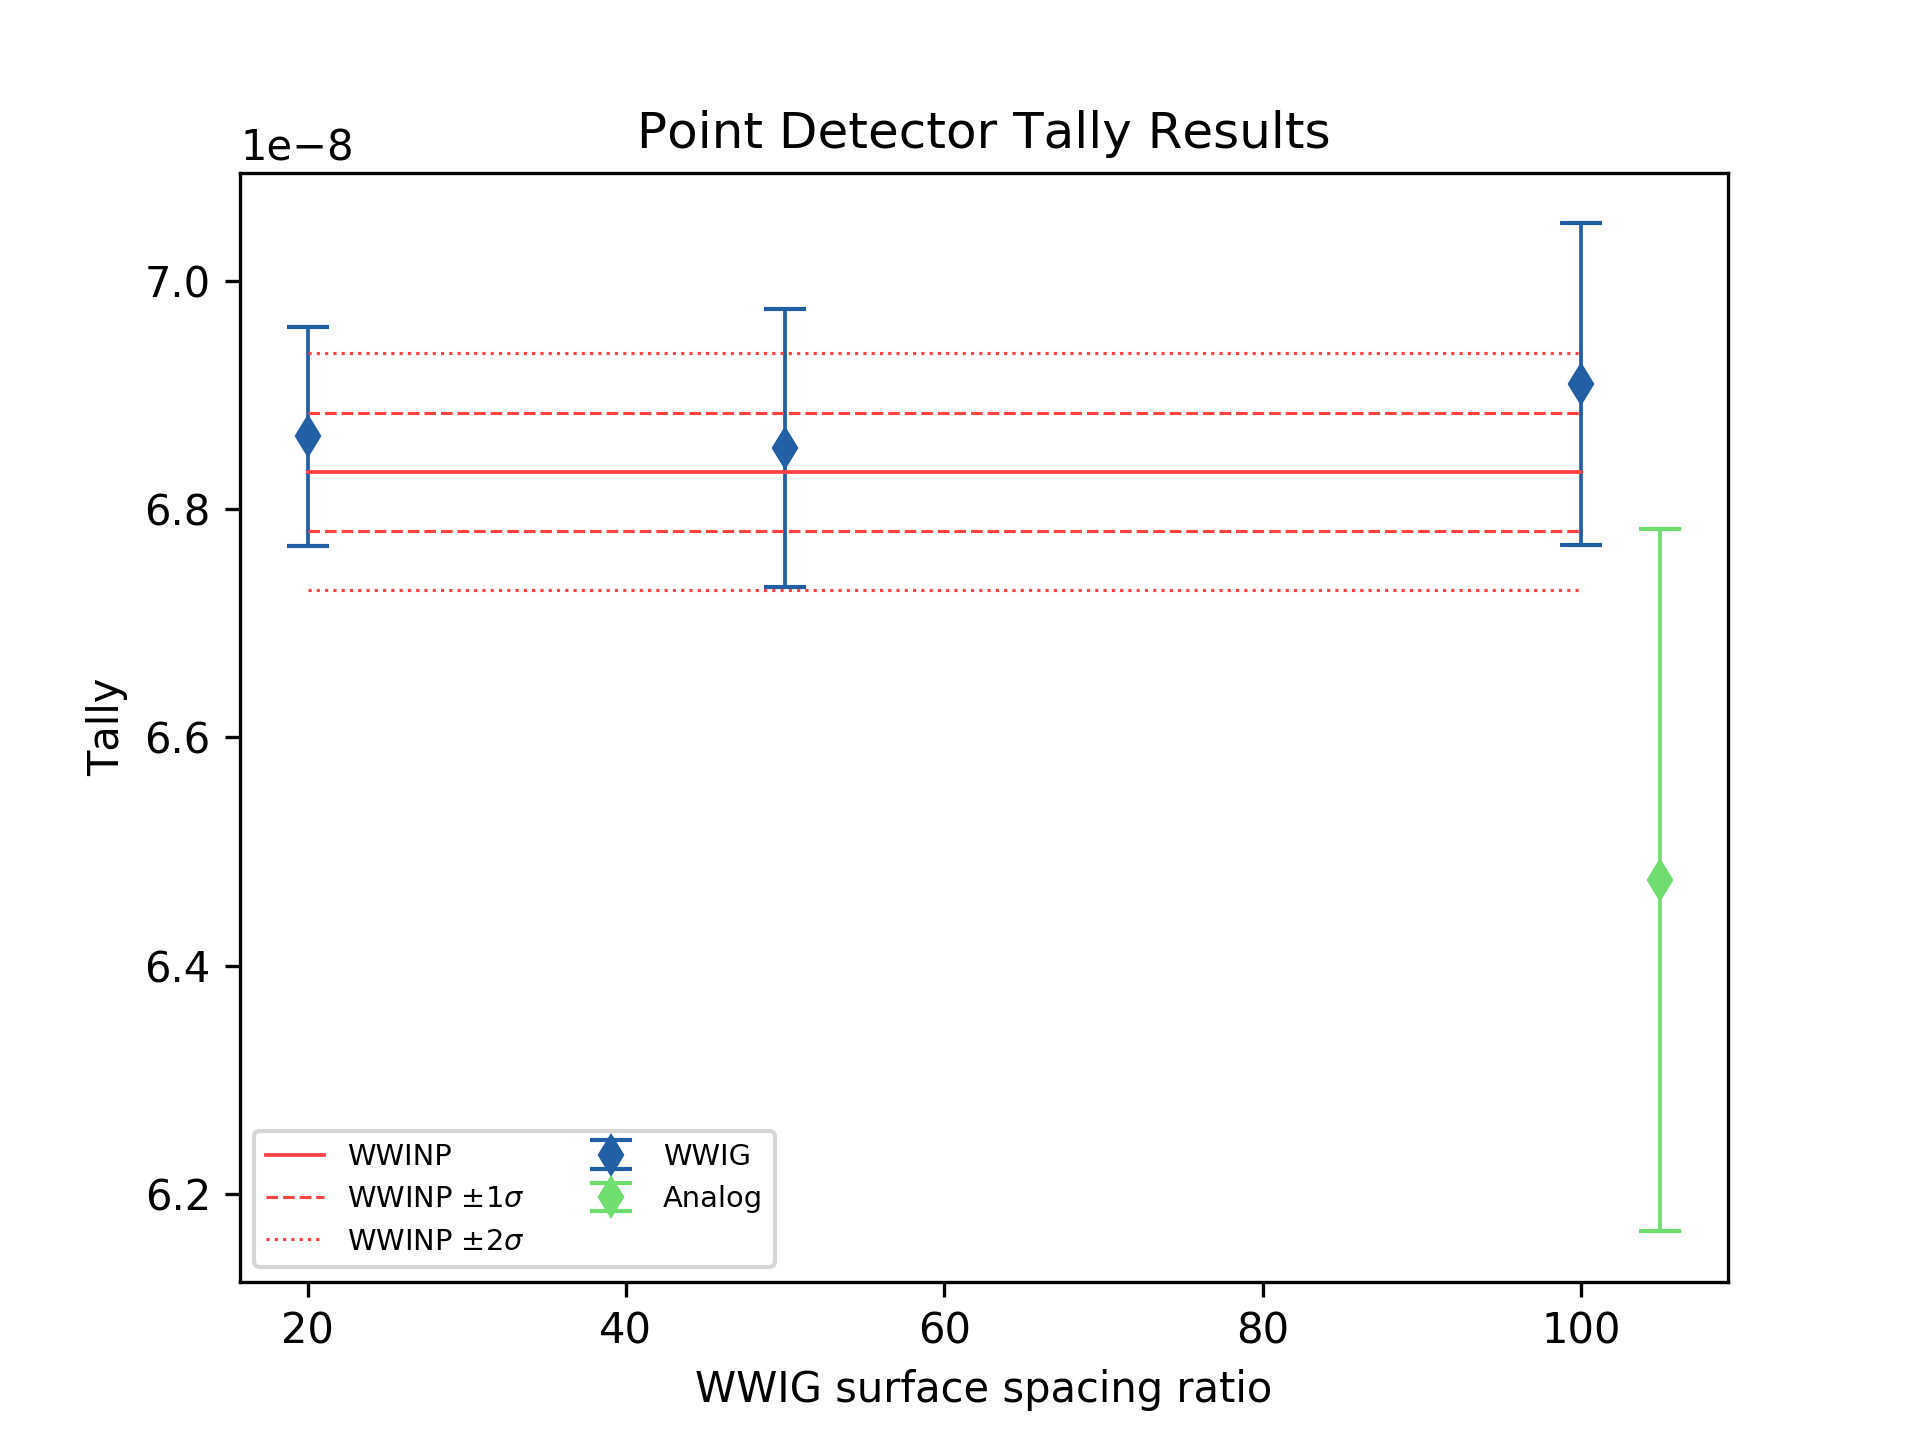
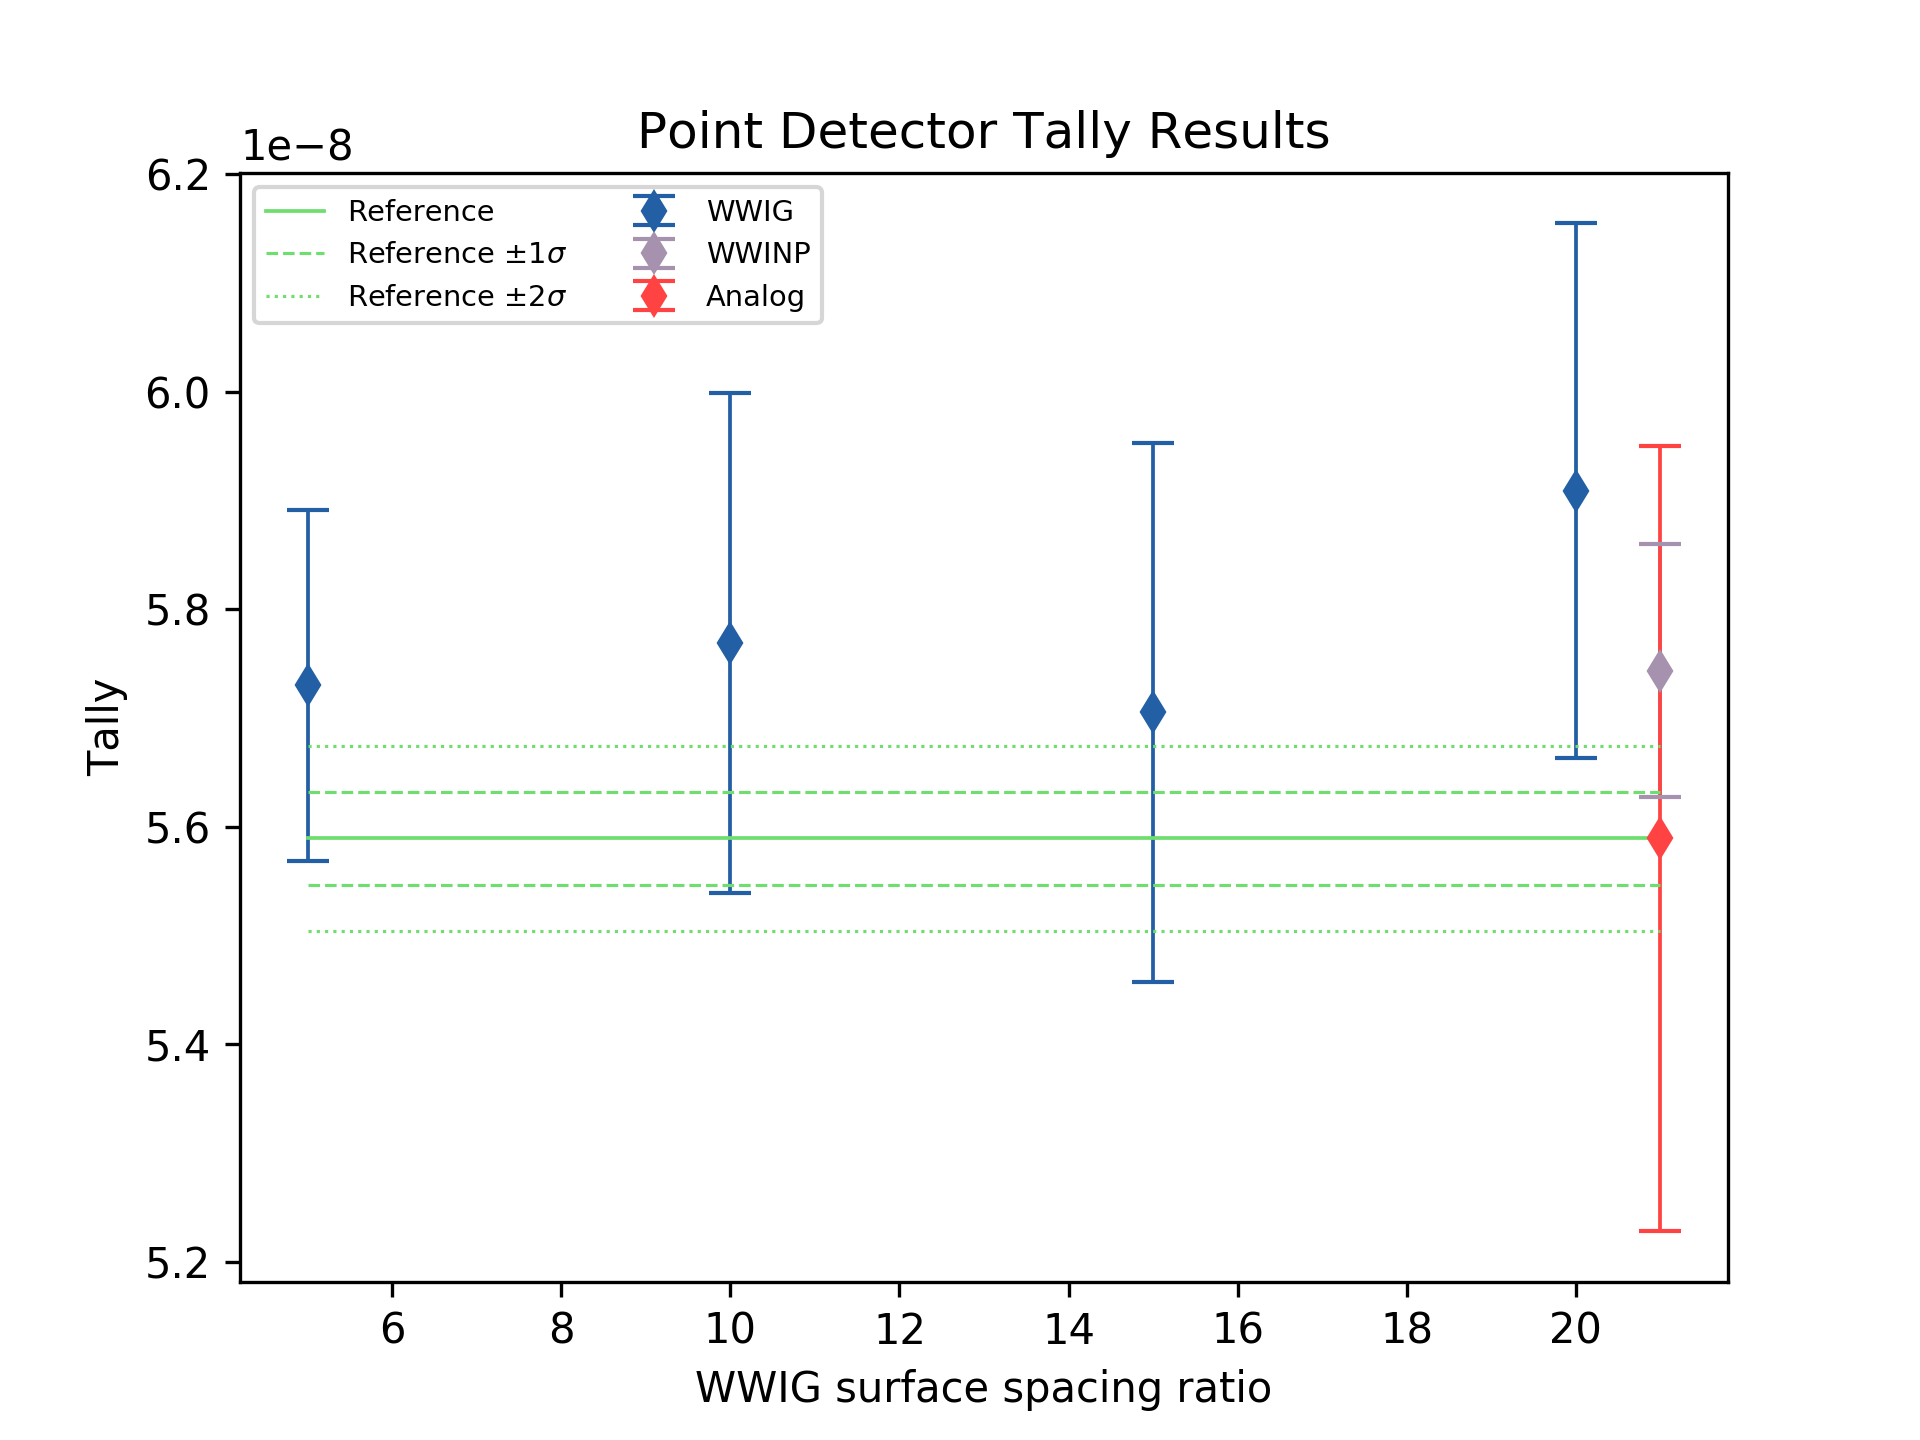
add new data, rework plots to use a reference solution instead of wwinp

diff --git a/analyze/tally_15.py b/analyze/tally_15.py
@@ -24,26 +24,31 @@ def calc_ratios(m1, e1, m2, e2):
 
 
 ## Data
+ratios = np.array([5, 10, 15, 20])
+wwinp_res = np.full(len(ratios), 5.7436E-08)
+wwinp_err = np.full(len(ratios), 0.0202)
+wwig_res = np.array([5.7301E-08, 5.7690E-08, 5.7053E-08, 5.9092E-08])
+wwig_err = np.array([0.0282, 0.0398, 0.0434, 0.0416])
+analog_res = np.full(len(ratios), 5.5893E-08)
+analog_err = np.full(len(ratios), 0.0646)
 
-ratios = np.array([20, 50, 100])
-wwig_res = np.array([6.8638E-08, 6.8536E-08, 6.9097E-08])
-wwig_err = np.array([0.0140, 0.0178, 0.0204])
-wwinp_res = np.array([6.8328E-08, 6.8328E-08, 6.8328E-08])
-wwinp_err = np.array([0.0076, 0.0076, 0.0076])
-analog_res = np.array([6.47480E-08, 6.47480E-08, 6.47480E-08])
-analog_err = np.array([0.0475, 0.0475, 0.0475])
+# reference solutions
+ref_res = np.full(len(ratios) + 1, 5.5894E-08)
+ref_err = np.full(len(ratios) + 1, 0.0076)
 
-wwinp1_upper, wwinp1_lower = calc_sigmas(wwinp_res, wwinp_err, 1)
-wwinp2_upper, wwinp2_lower = calc_sigmas(wwinp_res, wwinp_err, 2)
+ref1_upper, ref1_lower = calc_sigmas(ref_res, ref_err, 1)
+ref2_upper, ref2_lower = calc_sigmas(ref_res, ref_err, 2)
 
+## Plots
+# stuff for plots
+ext_x = max(ratios) + 1
+ref_xs = np.append(ratios, ext_x)
 
-# Plots
-
-wwinp_color = '#FF4242'
+# all colors: '#FF4242', '#235FA4', '#6FDE6E', '#E8F086', '#0A284B', '#A691AE'
+wwinp_color = '#A691AE'
 wwig_color = '#235FA4'
-analog_color = '#6FDE6E'
-
-# all colors: '#FF4242', '#E8F086', '#6FDE6E', '#0A284B', '#235FA4', '#A691AE'
+analog_color = '#FF4242'
+ref_color = '#6FDE6E'
 
 cs = 5  # cap size
 dpi = 300
@@ -51,15 +56,17 @@ dpi = 300
 # plot results
 plt.figure()
 plt.errorbar(ratios, wwig_res, yerr=(wwig_err*wwig_res),
-    color=wwig_color, label='WWIG', ls='', marker='d', lw=.9, capsize=cs)
-plt.errorbar([105], analog_res[0], yerr=(analog_err*analog_res)[0],
-    color=analog_color, label='Analog', ls='', marker='d', lw=.9, capsize=cs)
-plt.plot(ratios, wwinp_res, label='WWINP', ls='-', marker='', lw=.9, color=wwinp_color)
-plt.plot(ratios, wwinp1_upper, label='WWINP $\pm 1\sigma$', ls='--', lw=.75, color=wwinp_color)
-plt.plot(ratios, wwinp1_lower, label='', ls='--', lw=.75, color=wwinp_color)
-plt.plot(ratios, wwinp2_upper, label='WWINP $\pm 2\sigma$',
-         ls=':', lw=.75, color=wwinp_color)
-plt.plot(ratios, wwinp2_lower, label='', ls=':', lw=.75, color=wwinp_color)
+             color=wwig_color, label='WWIG', ls='', marker='d', lw=.9, capsize=cs)
+plt.errorbar([ext_x], wwinp_res[0], yerr=(wwinp_err*wwinp_res)[0],
+             color=wwinp_color, label='WWINP', ls='', marker='d', lw=.9, capsize=cs)
+plt.errorbar([ext_x], analog_res[0], yerr=(analog_err*analog_res)[0],
+             color=analog_color, label='Analog', ls='', marker='d', lw=.9, capsize=cs)
+plt.plot(ref_xs, ref_res, label='Reference', ls='-', marker='', lw=.9, color=ref_color)
+plt.plot(ref_xs, ref1_upper, label='Reference $\pm 1\sigma$', ls='--', lw=.75, color=ref_color)
+plt.plot(ref_xs, ref1_lower, label='', ls='--', lw=.75, color=ref_color)
+plt.plot(ref_xs, ref2_upper, label='Reference $\pm 2\sigma$',
+         ls=':', lw=.75, color=ref_color)
+plt.plot(ref_xs, ref2_lower, label='', ls=':', lw=.75, color=ref_color)
 plt.xlabel('WWIG surface spacing ratio')
 plt.ylabel('Tally')
 plt.title('Point Detector Tally Results')
@@ -67,48 +74,56 @@ plt.legend(loc='best', ncol=2, fontsize='x-small')
 plt.savefig('tally15_results.png', dpi=dpi)
 
 # plot wwinp ratio
-r1 = np.array([1, 1, 1])
+r1 = np.full(len(ratios), 1)
 
-# ratios compared to wwinp results
-wratio, werr = calc_ratios(wwig_res, wwig_err, wwinp_res, wwinp_err)
-aratio, aerr = calc_ratios(analog_res, analog_err, wwinp_res, wwinp_err)
+# results compared to reference results (ratios)
+wgratio, wgerr = calc_ratios(wwig_res, wwig_err, ref_res[:len(ratios)], ref_err[:len(ratios)])
+wpratio, wperr = calc_ratios(
+    wwinp_res[0], wwinp_err[0], ref_res[0], ref_err[0])
+aratio, aerr = calc_ratios(
+    analog_res[0], analog_err[0], ref_res[0], ref_err[0])
 
-wr1_upper, wr1_lower = calc_sigmas(r1, werr, 1)
-wr2_upper, wr2_lower = calc_sigmas(r1, werr, 2)
+wgr1_upper, wgr1_lower = calc_sigmas(r1, wgerr, 1)
+wgr2_upper, wgr2_lower = calc_sigmas(r1, wgerr, 2)
+
+wpr1_upper, wpr1_lower = calc_sigmas(r1, wperr, 1)
+wpr2_upper, wpr2_lower = calc_sigmas(r1, wperr, 2)
+
 ar1_upper, ar1_lower = calc_sigmas(r1, aerr, 1)
 ar2_upper, ar2_lower = calc_sigmas(r1, aerr, 2)
 
 plt.figure()
-plt.plot(ratios, r1, label='E/WWINP=1', ls='-', marker='', lw=.9, color=wwinp_color)
+# reference
+plt.plot(ratios, r1, label='E/Ref=1', ls='-', marker='', lw=.9, color=ref_color)
 
-plt.plot(ratios, wr1_upper, label='WWIG/WWINP $\pm 1\sigma$',
+# wwig/reference
+plt.plot(ratios, wgratio, label='WWIG/Ref', ls='', marker='d', lw=.9, color=wwig_color)
+plt.plot(ratios, wgr1_upper, label='WWIG/Ref $\pm 1\sigma$',
          ls='--', lw=.75, color=wwig_color)
-plt.plot(ratios, wr1_lower, label='', ls='--', lw=.75, color=wwig_color)
-plt.plot(ratios, wr2_upper, label='WWIG/WWINP $\pm 2\sigma$',
+plt.plot(ratios, wgr1_lower, label='', ls='--', lw=.75, color=wwig_color)
+plt.plot(ratios, wgr2_upper, label='WWIG/Ref $\pm 2\sigma$',
          ls=':', lw=.75, color=wwig_color)
-plt.plot(ratios, wr2_lower, label='', ls=':', lw=.75, color=wwig_color)
-plt.plot(ratios, wratio, label='WWIG/WWINP', ls='', marker='d', lw=.9, color=wwig_color)
-
-# figure out how I want to display the analog/wwinp ratio on this plot
-#plt.plot(ratios, ar1_upper, label='Analog/WWINP +/- 1 sigma', ls='--', lw=.75, color=analog_color)
-#plt.plot(ratios, ar1_lower, label='', ls='--', lw=.75, color=analog_color)
-#plt.plot(ratios, ar2_upper, label='Analog/WWINP +/- 2 sigma', ls=':', lw=.75, color=analog_color)
-#plt.plot(ratios, ar2_lower, label='', ls=':', lw=.75, color=analog_color)
-#plt.plot(ratios, aratio, label='Analog/WWINP', ls='', marker='d', lw=.9, color=analog_color)
-# make this plot a subplot right next to it?
-plt.errorbar([105], [1], yerr=(aratio*aerr)[0], label='Analog/WWINP $\pm 1\sigma$',
+plt.plot(ratios, wgr2_lower, label='', ls=':', lw=.75, color=wwig_color)
+# wwinp/reference
+plt.errorbar(ext_x, [1], yerr=(wpratio*wperr), label='WWINP/Ref $\pm 1\sigma$',
+             ls='', marker='', lw=.9, capsize=cs, color=wwinp_color)
+plt.plot(ext_x, wpratio, label='WWINP/Ref', ls='',
+         marker='d', lw=.9, color=wwinp_color)
+# analog/reference
+plt.errorbar(ext_x, [1], yerr=(aratio*aerr), label='Analog/Ref $\pm 1\sigma$',
              ls='', marker='', lw=.9, capsize=cs, color=analog_color)
-plt.plot([105], aratio[0], label='Analog/WWINP', ls='', marker='d', lw=.9, color=analog_color)
+plt.plot(ext_x, aratio, label='Analog/Ref', ls='', marker='d', lw=.9, color=analog_color)
 
 plt.xlabel('WWIG surface spacing ratio')
-plt.ylabel('Ratio (E/WWINP)')
-plt.title('Point Detector Tally Results, compared to WWINP results')
-plt.legend(loc='best', ncol=2, fontsize='x-small', title='Comparison Results E')
+plt.ylabel('Ratio (E/Reference)')
+plt.title('Point Detector Tally Results,\n compared to reference results')
+plt.legend(loc='best', ncol=3, fontsize='x-small', title='Comparison Results E')
 plt.savefig('tally15_ratios.png', dpi=dpi)
-
 
 # plot relative errors
 plt.figure()
+plt.plot(ref_xs[:len(ratios)], ref_err[:len(ratios)], label='Reference', ls='-',
+         marker='', lw=.9, color=ref_color)
 plt.plot(ratios, wwinp_err, label='WWINP', ls='-', marker='', lw=.9, color=wwinp_color)
 plt.plot(ratios, wwig_err, label='WWIG', ls='-', marker='d', lw=.9, color=wwig_color)
 plt.plot(ratios, analog_err, label='Analog', ls='-', marker='', lw=.9, color=analog_color)
